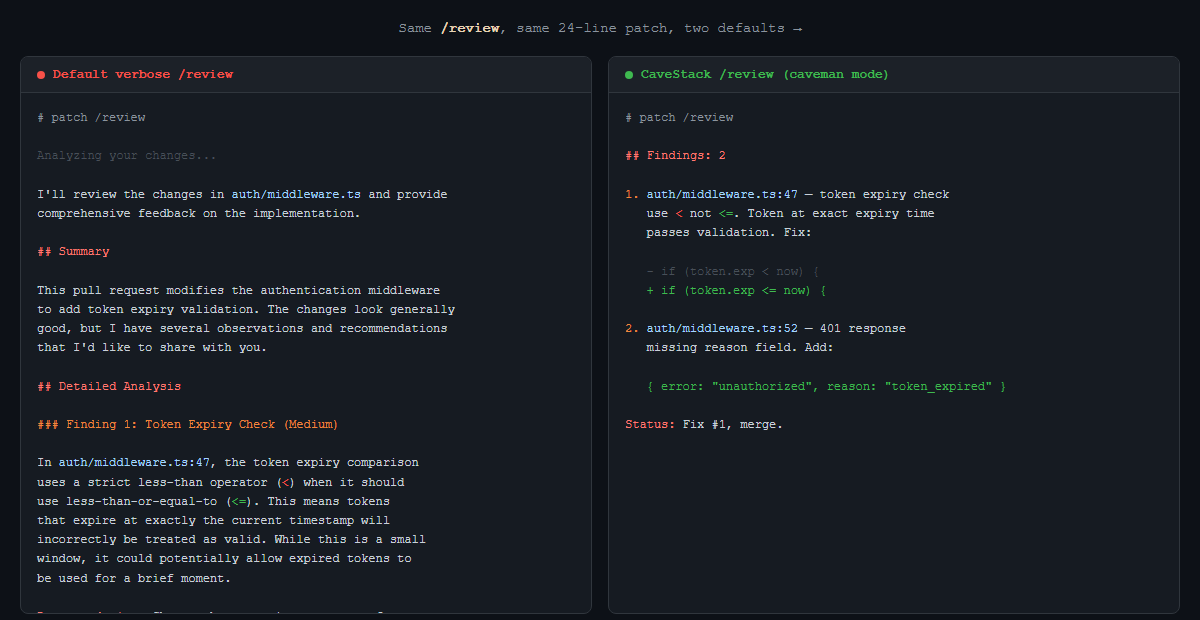
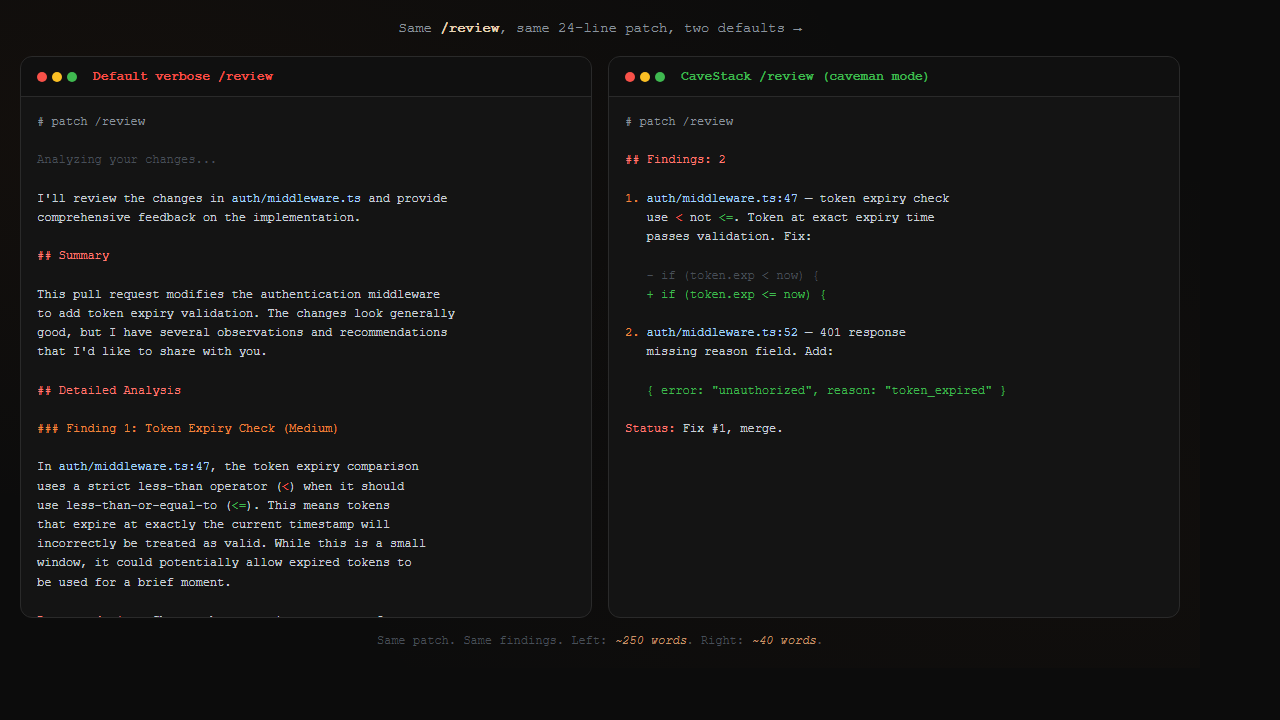
feat: regenerate images with cave atmosphere theme
Social preview: added mini terminal one-liner, firelight glow, darker
base (#0C0C0C). Review image: added window dots (red/yellow/green),
12px border-radius, cave wall texture overlay. Both screenshotted
from updated HTML templates via browse binary.

diff --git a/docs/images/social-preview.html b/docs/images/social-preview.html
@@ -7,7 +7,7 @@
   body {
     width: 1280px;
     height: 640px;
-    background: #1a1a1a;
+    background: #0C0C0C;
     font-family: 'Courier New', monospace;
     display: flex;
     flex-direction: column;
@@ -29,11 +29,20 @@
     pointer-events: none;
   }
 
+  /* Firelight glow */
+  body::after {
+    content: '';
+    position: absolute;
+    inset: 0;
+    background: radial-gradient(ellipse at 50% 85%, rgba(245,158,11,0.12) 0%, transparent 55%);
+    pointer-events: none;
+  }
+
   /* Cave handprints */
   .handprint {
     position: absolute;
     font-size: 48px;
-    opacity: 0.12;
+    opacity: 0.1;
     transform: rotate(-15deg);
   }
   .handprint.left { top: 80px; left: 60px; transform: rotate(-25deg); }
@@ -44,20 +53,19 @@
   .torch {
     position: absolute;
     font-size: 40px;
-    opacity: 0.25;
+    opacity: 0.2;
   }
   .torch.l { left: 30px; top: 280px; }
   .torch.r { right: 30px; top: 280px; }
 
-  /* Cave drawings */
+  /* Cave art */
   .cave-art {
     position: absolute;
-    opacity: 0.1;
+    opacity: 0.08;
     font-size: 32px;
   }
   .cave-art.deer { bottom: 120px; left: 140px; font-size: 28px; }
   .cave-art.person1 { top: 160px; right: 120px; }
-  .cave-art.person2 { bottom: 160px; left: 300px; font-size: 24px; }
 
   .title {
     font-size: 96px;
@@ -82,25 +90,30 @@
     text-shadow: 2px 2px 8px rgba(0,0,0,0.5);
   }
 
-  .terminal-hint {
-    position: absolute;
-    bottom: 50px;
+  /* Mini terminal preview */
+  .mini-terminal {
+    margin-top: 28px;
+    background: #141414;
+    border: 1px solid #2a2a2a;
+    border-radius: 8px;
+    padding: 10px 20px;
     font-size: 16px;
-    color: #666;
-    letter-spacing: 2px;
+    color: #8b949e;
+    position: relative;
     z-index: 2;
+    display: flex;
+    align-items: center;
+    gap: 10px;
   }
+  .mini-terminal .prompt { color: #3fb950; }
+  .mini-terminal .output { color: #c9d1d9; }
 
-  .terminal-hint span {
-    color: #4a9;
-  }
-
-  /* Dots like cave painting dots */
+  /* Dots */
   .dots {
     position: absolute;
     display: flex;
     gap: 12px;
-    opacity: 0.15;
+    opacity: 0.12;
   }
   .dots.top-row { top: 30px; left: 50%; transform: translateX(-50%); }
   .dots.bot-row { bottom: 30px; left: 50%; transform: translateX(-50%); }
@@ -111,11 +124,11 @@
     background: #c4956a;
   }
 
-  /* Scratches like cave wall marks */
+  /* Scratches */
   .scratch {
     position: absolute;
     color: #c4956a;
-    opacity: 0.08;
+    opacity: 0.06;
     font-size: 64px;
     font-weight: 100;
   }
@@ -124,21 +137,14 @@
 </style>
 </head>
 <body>
-  <!-- Cave handprints -->
   <div class="handprint left">&#9995;</div>
   <div class="handprint right">&#9995;</div>
   <div class="handprint top">&#9995;</div>
-
-  <!-- Torches -->
   <div class="torch l">&#128293;</div>
   <div class="torch r">&#128293;</div>
-
-  <!-- Cave art figures -->
   <div class="cave-art deer">&#129420;</div>
   <div class="cave-art person1">&#128100;</div>
-  <div class="cave-art person2">&#128100;</div>
 
-  <!-- Decorative dots -->
   <div class="dots top-row">
     <div class="dot"></div><div class="dot"></div><div class="dot"></div>
     <div class="dot"></div><div class="dot"></div><div class="dot"></div>
@@ -150,13 +156,14 @@
     <div class="dot"></div><div class="dot"></div><div class="dot"></div>
   </div>
 
-  <!-- Scratches -->
   <div class="scratch s1">///</div>
   <div class="scratch s2">///</div>
 
-  <!-- Main content -->
   <div class="title">CAVESTACK</div>
   <div class="tagline">Why use many word when few do?</div>
-  <div class="terminal-hint"><span>$</span> claude &mdash; now with 75% less talking</div>
+  <div class="mini-terminal">
+    <span class="prompt">$</span>
+    <span class="output">/review &rarr; Bug in auth:47. Token expiry. Fix:</span>
+  </div>
 </body>
 </html>

diff --git a/docs/images/sidebyside-review.html b/docs/images/sidebyside-review.html
@@ -7,16 +7,29 @@
   * { margin: 0; padding: 0; box-sizing: border-box; }
   body {
     width: 1200px;
-    background: #0d1117;
+    background: #0C0C0C;
     font-family: 'Courier New', 'Consolas', monospace;
     padding: 20px;
     color: #c9d1d9;
+    position: relative;
+  }
+  /* Subtle cave wall texture */
+  body::before {
+    content: '';
+    position: absolute;
+    inset: 0;
+    background:
+      radial-gradient(ellipse at 10% 20%, rgba(139,69,19,0.06) 0%, transparent 50%),
+      radial-gradient(ellipse at 90% 80%, rgba(139,69,19,0.04) 0%, transparent 50%);
+    pointer-events: none;
   }
   .header {
     text-align: center;
     margin-bottom: 20px;
     color: #8b949e;
     font-size: 14px;
+    position: relative;
+    z-index: 1;
   }
   .header strong {
     color: #e8d5b7;
@@ -24,38 +37,45 @@
   .container {
     display: flex;
     gap: 16px;
+    position: relative;
+    z-index: 1;
   }
   .panel {
     flex: 1;
-    background: #161b22;
-    border: 1px solid #30363d;
-    border-radius: 8px;
+    background: #141414;
+    border: 1px solid #2a2a2a;
+    border-radius: 12px;
     overflow: hidden;
   }
   .panel-header {
-    padding: 10px 16px;
-    border-bottom: 1px solid #30363d;
+    padding: 12px 16px;
+    border-bottom: 1px solid #2a2a2a;
     font-size: 13px;
     font-weight: bold;
     display: flex;
     align-items: center;
     gap: 8px;
+    background: rgba(0,0,0,0.2);
   }
   .verbose .panel-header {
-    background: #1c2128;
     color: #f85149;
   }
   .caveman .panel-header {
-    background: #1c2128;
     color: #3fb950;
   }
+  .dots {
+    display: flex;
+    gap: 5px;
+    margin-right: 8px;
+  }
   .dot {
-    width: 8px;
-    height: 8px;
+    width: 10px;
+    height: 10px;
     border-radius: 50%;
   }
-  .verbose .dot { background: #f85149; }
-  .caveman .dot { background: #3fb950; }
+  .dot.red { background: #f85149; }
+  .dot.yellow { background: #FBBF24; }
+  .dot.green { background: #3fb950; }
   .panel-body {
     padding: 16px;
     font-size: 12px;
@@ -76,6 +96,8 @@
     margin-top: 16px;
     color: #484f58;
     font-size: 12px;
+    position: relative;
+    z-index: 1;
   }
   .footer em { color: #c4956a; }
 </style>
@@ -85,7 +107,10 @@
 <div class="container">
 
 <div class="panel verbose">
-<div class="panel-header"><div class="dot"></div> Default verbose /review</div>
+<div class="panel-header">
+  <div class="dots"><div class="dot red"></div><div class="dot yellow"></div><div class="dot green"></div></div>
+  Default verbose /review
+</div>
 <div class="panel-body"><span class="comment"># patch /review</span>
 
 <span class="dim">Analyzing your changes...</span>
@@ -134,7 +159,10 @@ a test case for the boundary condition as well.</div>
 </div>
 
 <div class="panel caveman">
-<div class="panel-header"><div class="dot"></div> CaveStack /review (caveman mode)</div>
+<div class="panel-header">
+  <div class="dots"><div class="dot red"></div><div class="dot yellow"></div><div class="dot green"></div></div>
+  CaveStack /review (caveman mode)
+</div>
 <div class="panel-body"><span class="comment"># patch /review</span>
 
 <span class="keyword">## Findings: 2</span>
